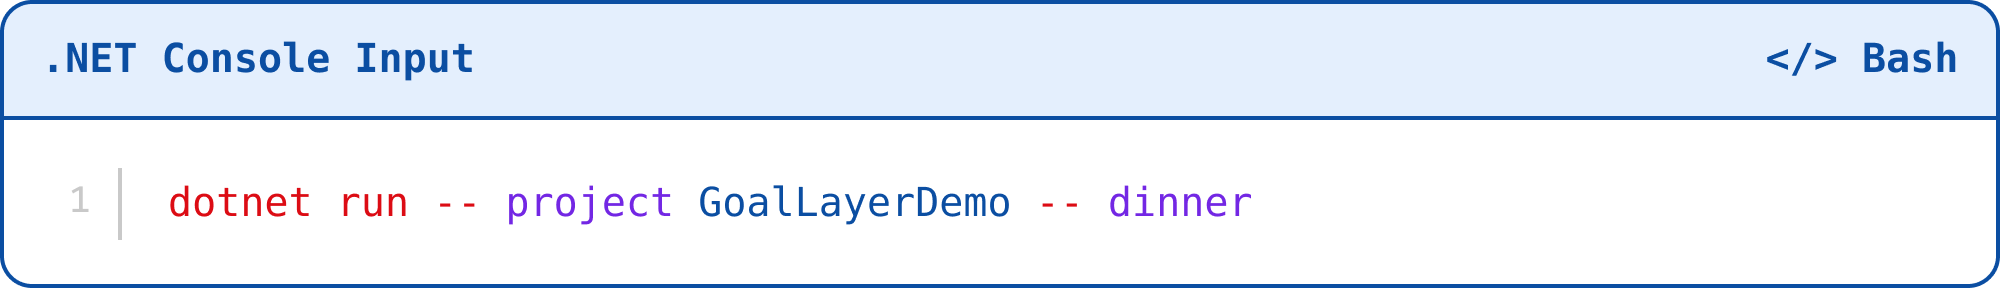
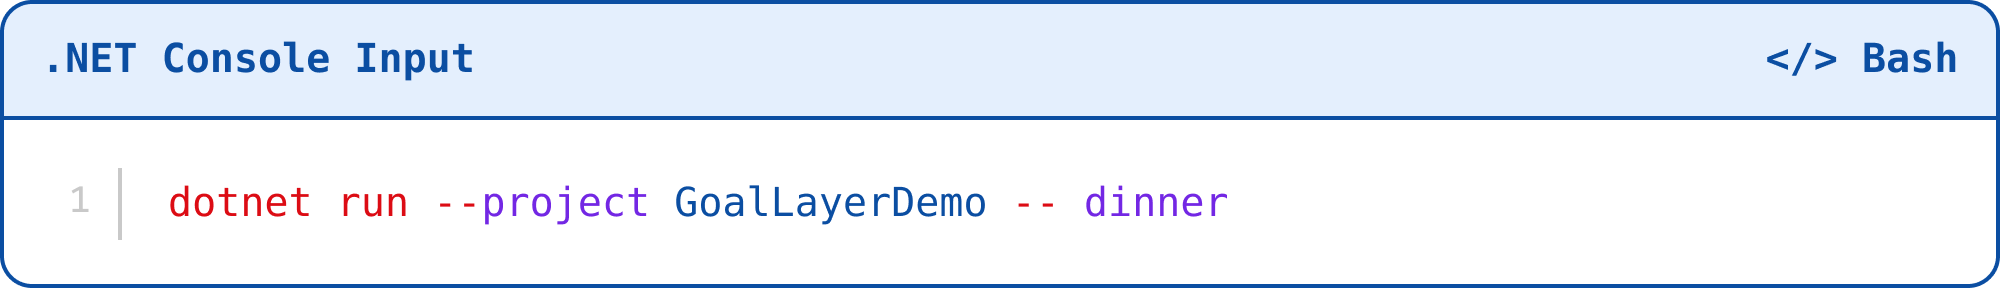
Appendix C Project 3: build step, README, figures match real output

Changed region(s): [[0.217, 0.625, 0.62, 0.7812]]

diff --git a/book/appendices/appendix-c.md b/book/appendices/appendix-c.md
@@ -140,19 +140,33 @@ The object diagrams show how the same set of instances receives different select
 
 In Project 3, the code applies a goal to a fixed set of instances. The goal determines which instances satisfy its selection constraint, but it does not alter the instances themselves or the concept they instantiate. The README for Project 3 provides the canonical run commands and expected outputs.
 
+After navigating to the folder containing the project, build it:
+
+<img src="../../assets/figures/appendix-c/figure-18-build.png" alt="Console command: dotnet build GoalLayerDemo" />
+
+<p align="center"><ins>Project 3 Build Command</ins></p>
+
+Then run it with the dinner goal:
+
 <img src="../../assets/figures/appendix-c/figure-18.png" />
 
 <p align="center"><ins>Project 3 Dinner Run Commands</ins></p>
+
+The dinner goal selects only the instance whose type is FOOD:
 
 <img src="../../assets/figures/appendix-c/figure-19.png" />
 
 <p align="center"><ins>Project 3 Dinner Output</ins></p>
 
+Run the same instances under the pet goal:
+
 <img src="../../assets/figures/appendix-c/figure-20.png" />
 
 <p align="center"><ins>Project 3 Pet Run Commands</ins></p>
 
-<img src="../../assets/figures/appendix-c/figure-21.png" />
+The pet goal selects only the instance whose type is PET:
+
+<img src="../../assets/figures/appendix-c/figure-21-p3.png" />
 
 <p align="center"><ins>Project 3 Pet Output</ins></p>
 

diff --git a/code/appendix-c/project-3/README.md b/code/appendix-c/project-3/README.md
@@ -2,9 +2,15 @@ Instructions for general environment setup can be found in: *How to Run the Code
 
 This README is the canonical source for the exact commands and expected outputs for Appendix C, Project 3.
 
-## Run Command
+## Build Command
 
-Run from inside the `Project_3` folder.
+Run from inside the `project-3` folder.
+
+```bash
+dotnet build GoalLayerDemo
+```
+
+## Run Commands
 
 ```bash
 dotnet run --project GoalLayerDemo -- dinner
@@ -18,7 +24,7 @@ Active Goal: DinnerGoal
 Selected: Salmon (FOOD)
 ```
 
-## Other Option
+## Other Options
 
 ```bash
 dotnet run --project GoalLayerDemo -- pet
